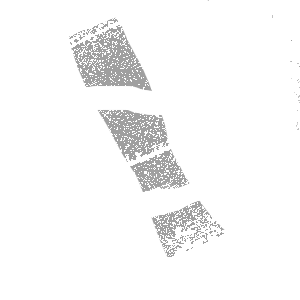
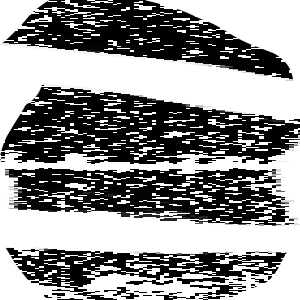
Optimize acrylic brush

diff --git a/Utils/InputHandler.cs b/Utils/InputHandler.cs
@@ -55,6 +55,8 @@ namespace ShakyDoodle.Utils
             var strokes = _frameController.GetStrokes();
             _shortcutHelper.PushUndoState(strokes.Select(s => s.Clone()).ToList());
 
+            bool isShakeForStroke = _currentBrushType == BrushType.Shaking && _isShake;
+
             CurrentStroke = new Stroke(
                 _currentColor,
                 position,
@@ -62,7 +64,7 @@ namespace ShakyDoodle.Utils
                 _alpha,
                 _currentCap,
                 pressure,
-                _isShake,
+                isShakeForStroke,
                 _currentBrushType
             );
             strokes.Add(CurrentStroke);
@@ -99,8 +101,7 @@ namespace ShakyDoodle.Utils
 
             if (_currentBrushType == BrushType.Acrylic)
             {
-                float spacing = _isShake ? 5 : 1f;
-                spacing *= 3;
+                float spacing = GetSpacingForSize(_currentSize);
                 if (CurrentStroke.Points.Count < 1)
                 {
                     CurrentStroke.Points.Add(position);
@@ -126,7 +127,7 @@ namespace ShakyDoodle.Utils
             }
             else
             {
-                float spacing = _isShake ? 5 : 1f;
+                float spacing = _isShake ? 5 : 2f;
                 if (CurrentStroke.Points.Count < 1)
                 {
                     CurrentStroke.Points.Add(position);
@@ -150,6 +151,18 @@ namespace ShakyDoodle.Utils
                 CurrentStroke.Points.Add(position);
                 CurrentStroke.Pressures.Add(clampedPressure);
             }
+        }
+
+        private float GetSpacingForSize(SizeType size)
+        {
+            return size switch
+            {
+                SizeType.Small => 4f,
+                SizeType.Medium => 25f,
+                SizeType.Large => 50f,
+                SizeType.ExtraLarge => 150f,
+                _ => 4f
+            };
         }
 
         public void PointerReleased()

diff --git a/Rendering/StrokeRenderer.cs b/Rendering/StrokeRenderer.cs
@@ -108,6 +108,7 @@ namespace ShakyDoodle.Rendering
                 }
                 using (var ctx = _activeStrokeCache.CreateDrawingContext(true))
                 {
+                    ctx.FillRectangle(Brushes.Transparent, new Rect(0, 0, _activeStrokeCache.Size.Width, _activeStrokeCache.Size.Height));
                     DrawStroke(activeStroke, activeStroke.Shake ? _shakeController.GetShakeIntensity(0, new() { activeStroke }, 1) : 0, ctx, 1.0);
                 }
                 context.DrawImage(
